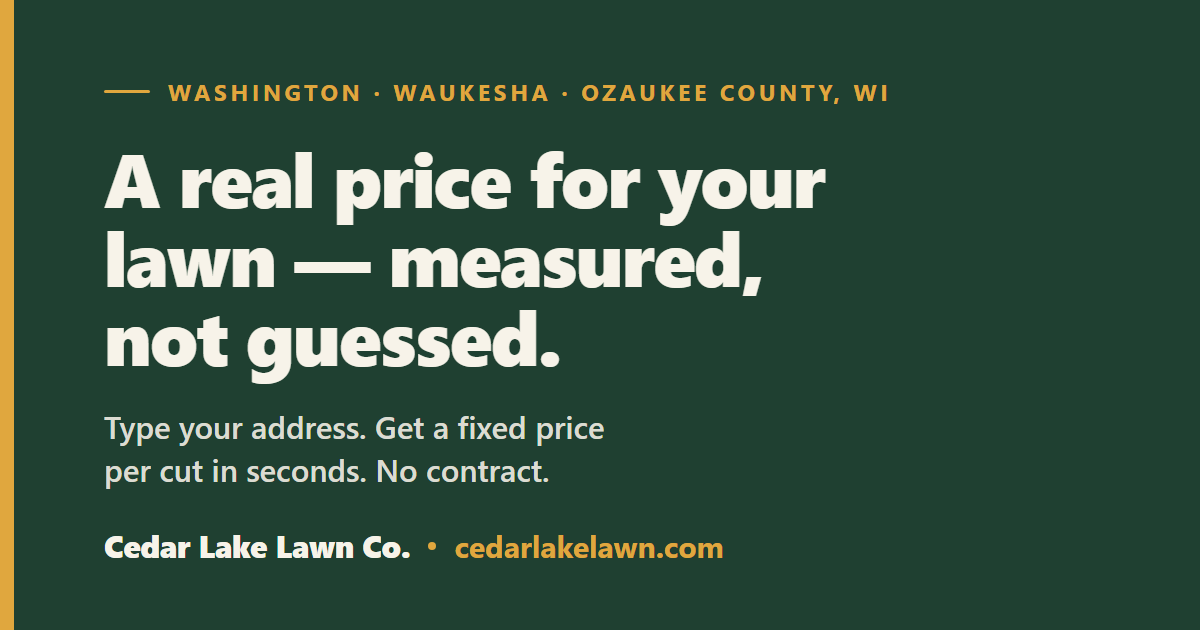
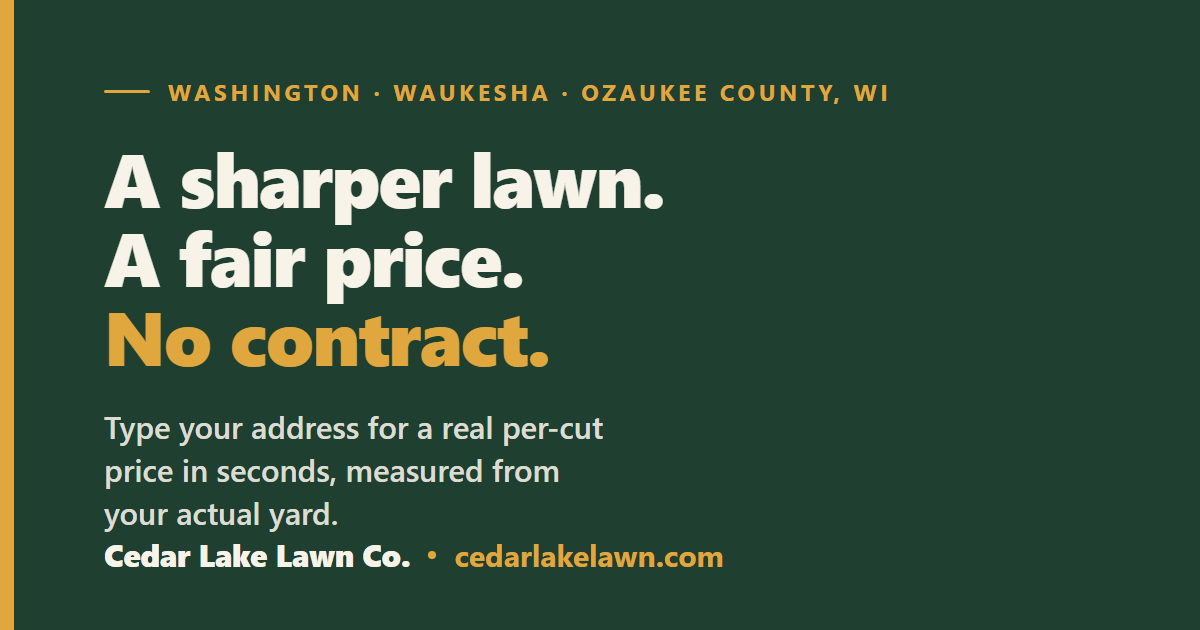
New hero headline: 'A sharper lawn. A fair price. No contract.'
- Three-beat headline with 'No contract.' in gold accent; tighter lede
- Regenerate OG share image to match

diff --git a/app/index.html b/app/index.html
@@ -99,8 +99,8 @@
   <div class="wrap">
     <div class="herotext">
       <div class="eyebrow" id="eyebrow">Washington · Waukesha · Ozaukee County, WI</div>
-      <h1>A real price for your lawn — measured, not guessed.</h1>
-      <p class="lede">Locally owned, serving the lake country of Washington, Waukesha, and Ozaukee County. Type your address for a real price per cut in seconds — measured from your actual yard, confirmed in person, no contract.</p>
+      <h1>A sharper lawn.<br />A fair price.<br /><span class="h1accent">No contract.</span></h1>
+      <p class="lede">Type your address for a real per-cut price in seconds, measured from your actual yard.</p>
       <div class="heroctas">
         <a class="btn btn-primary" href="#quote">Get my price</a>
         <a class="btn btn-ghost" id="heroText" href="#">Text us a question</a>

diff --git a/app/src/style.css b/app/src/style.css
@@ -47,6 +47,7 @@ h3{font-weight:700}
 .hero .eyebrow{color:var(--accent)}
 .hero .eyebrow::before{background:var(--accent)}
 .hero h1{color:var(--on-dark)}
+.h1accent{color:var(--accent)}
 .hero .lede{color:rgba(247,243,233,.84)}
 .hero .trustline{color:rgba(247,243,233,.86)}
 .hero .trustline span:not(:first-child)::before{background:rgba(247,243,233,.3)}